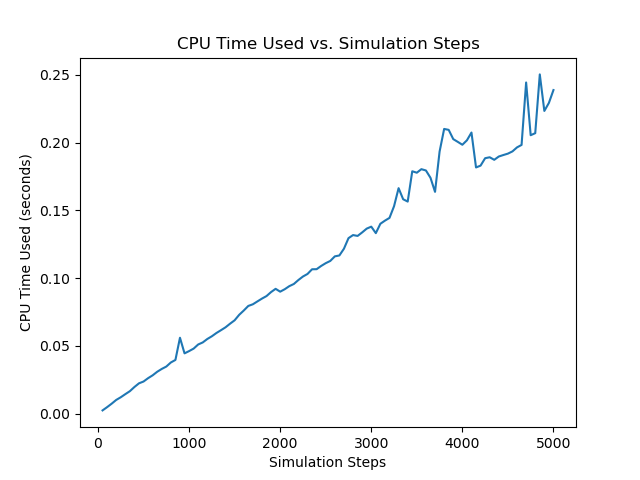
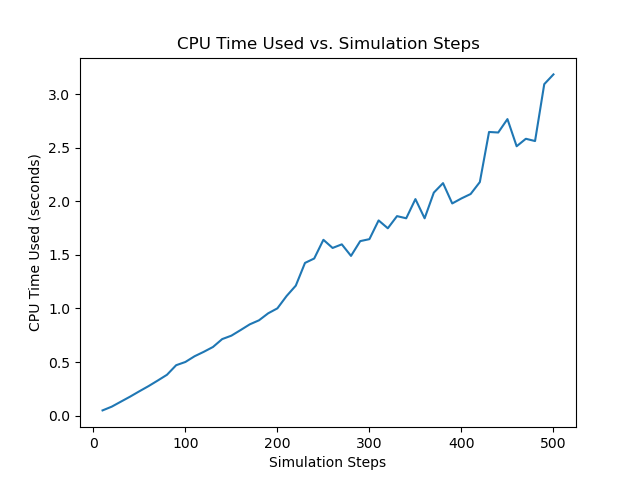
basic seq and para program, para still some bugs

diff --git a/parallel/project1_para.c b/parallel/project1_para.c
@@ -2,16 +2,18 @@
 #include <stdlib.h>
 #include <math.h>
 #include <time.h>
+#include <omp.h> // include OpenMP header
 
 #define NUM_FISH 100000
 #define LAKE_SIZE 1000
 #define INIT_WEIGHT 10
+#define NUM_THREADS 4
 
 struct Fish {
     float x;
     float y;
-    float old_x; // For storing the old x-coordinate
-    float old_y; // For storing the old y-coordinate
+    float old_x;
+    float old_y;
     float weight;
 };
 
@@ -19,7 +21,6 @@ float calculate_distance(float x, float y) {
     return sqrt(x * x + y * y);
 }
 
-// Calculate the new position when swim
 void swim(struct Fish* fish) {
     fish->old_x = fish->x;
     fish->old_y = fish->y;
@@ -31,36 +32,35 @@ int main() {
     FILE *fp;
     fp = fopen("results1.txt", "w");
 
-    for(int SIMULATION_STEPS = 10; SIMULATION_STEPS <= 500; SIMULATION_STEPS += 10) {
+    // Setting the number of threads
+    omp_set_num_threads(NUM_THREADS);
+
+    for(int SIMULATION_STEPS = 10; SIMULATION_STEPS <= 100; SIMULATION_STEPS += 10) {
         struct Fish fishes[NUM_FISH];
         float barycentre;
         int t, i;
 
         srand(time(0));
 
-        // Init fish position and weight
         for(i = 0; i < NUM_FISH; i++) {
             fishes[i].x = (float) rand() / RAND_MAX * LAKE_SIZE - (LAKE_SIZE / 2);
             fishes[i].y = (float) rand() / RAND_MAX * LAKE_SIZE - (LAKE_SIZE / 2);
             fishes[i].weight = INIT_WEIGHT;
         }
 
-        clock_t start = clock();
+        double start = omp_get_wtime();
 
-        // Simulation
         for(t = 0; t < SIMULATION_STEPS; t++) {
             float total_distance_weighted = 0;
             float total_distance = 0;
             float max_delta_f = -1;
 
-            // Update the fish position and calculate maximum δ(f)
+            // Parallel loop for updating fish position and calculating maximum δ(f)
+            #pragma omp parallel for schedule(dynamic) reduction(max:max_delta_f) reduction(+:total_distance_weighted,total_distance)
             for(i = 0; i < NUM_FISH; i++) {
                 float old_distance = calculate_distance(fishes[i].x, fishes[i].y);
-                
-                swim(&fishes[i]); // Assume all fish can eat food in every round
-                
+                swim(&fishes[i]);
                 float new_distance = calculate_distance(fishes[i].x, fishes[i].y);
-                
                 float delta_f = new_distance - old_distance;
 
                 if(delta_f > max_delta_f) {
@@ -71,7 +71,8 @@ int main() {
                 total_distance += new_distance;
             }
 
-            // Update the fish weight
+            // Parallel loop for updating fish weight
+            #pragma omp parallel for
             for(i = 0; i < NUM_FISH; i++) {
                 float old_distance = calculate_distance(fishes[i].old_x, fishes[i].old_y);
                 float new_distance = calculate_distance(fishes[i].x, fishes[i].y);
@@ -83,16 +84,14 @@ int main() {
                 }
             }
 
-            // Calculate the barycentre of the fish school
             barycentre = total_distance_weighted / total_distance;
         }
 
-        clock_t end = clock();
+        double end = omp_get_wtime();
 
-        double cpu_time_used = ((double) (end - start)) / CLOCKS_PER_SEC;
-        fprintf(fp, "%d, %f\n", SIMULATION_STEPS, cpu_time_used);
-        // printf("Simulation complete. Time taken: %f seconds.\n", cpu_time_used);
+        fprintf(fp, "%d, %f\n", SIMULATION_STEPS, end - start);
     }
 
+    fclose(fp);
     return 0;
 }

diff --git a/parallel/plot_results1.py b/parallel/plot_results1.py
@@ -1,0 +1,20 @@
+import matplotlib.pyplot as plt
+
+simulation_steps = []
+cpu_time_used = []
+
+# read the result from results.txt
+with open('results1.txt', 'r') as f:
+    lines = f.readlines()
+    for line in lines:
+        step, time = line.strip().split(", ")
+        simulation_steps.append(int(step))
+        cpu_time_used.append(float(time))
+
+# draw plot
+plt.plot(simulation_steps, cpu_time_used)
+plt.xlabel('Simulation Steps')
+plt.ylabel('CPU Time Used (seconds)')
+plt.title('CPU Time Used vs. Simulation Steps')
+# plt.show()
+plt.savefig('CPU_Time_vs_Steps.png')
